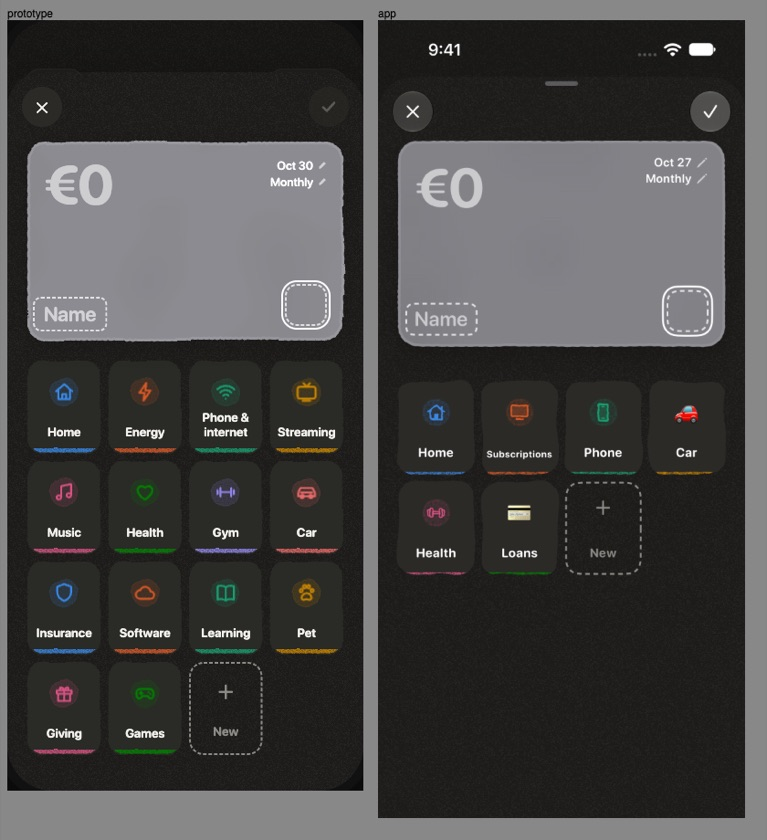
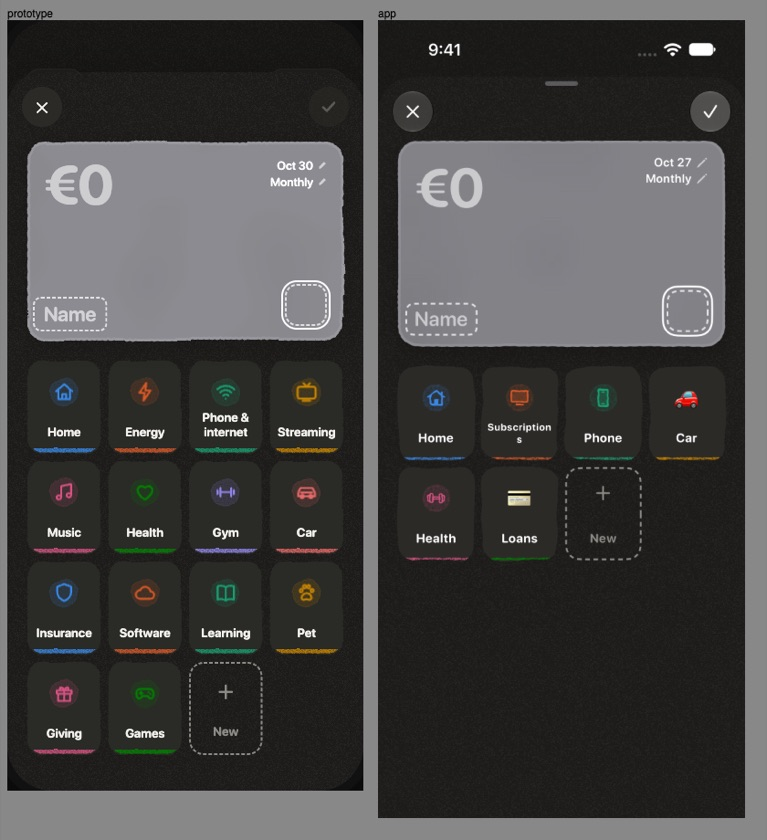
docs: the picker's screenshots after its gap and name size were fixed
Plan: docs/plans/category-editor.md

Changed region(s): [[0.6297, 0.4643, 0.8396, 0.7119], [0.5398, 0.4643, 0.5997, 0.7119], [0.8696, 0.4643, 0.9296, 0.5881]]

diff --git a/docs/screenshots/category-editor/README.md b/docs/screenshots/category-editor/README.md
@@ -1,6 +1,6 @@
 # Category editor, prototype and app side by side
 
-Taken 2026-10-27 at `claude/project-thread-v3a3hk` 7479606, iPhone 17 Simulator (iOS 27), against
+Taken 2026-10-27 at `claude/project-thread-v3a3hk` 7479606 (the picker pair at fbecc80), iPhone 17 Simulator (iOS 27), against
 `docs/prototypes/category-editor.html` (Tune: search `top`, findEdit `press`, cardInfo `cost`,
 infoAt `below`). Each `side-by-side-*` has the prototype on the left and the app on the right,
 both at point scale (390 and 402 wide). The sample data differs: the prototype has its 14
@@ -9,8 +9,6 @@ design. `app-*-ax` are the app at the accessibility-large text size.
 
 ## Differences that remain
 
-- **Picker under the bill card:** the app's grid starts about 10pt lower under the card than the
-  prototype's. The editor's own spacing; left alone, as its layout is held by measured rules.
 - **Symbols:** the app's catalogue is far larger than the prototype's 28 stand-ins, so the grid
   runs longer and the picked symbol is often below the fold.
 - **Sort menu:** the system menu puts each sort's detail under its name; the prototype sets it on
@@ -20,10 +18,12 @@ design. `app-*-ax` are the app at the accessibility-large text size.
   editor already has.
 - **Pictures from emoji:** sample categories made before symbols (Car, Loans) still draw their
   emoji.
-- **Long names at the largest sizes:** past 80% a name breaks mid-word ("Subscriptions" at
-  accessibility sizes), as agreed: imperfect over tiny.
+- **Long names:** a name shrinks to 80% of its size at most, then breaks mid-word, as agreed:
+  imperfect over tiny. "Subscriptions" breaks on a picker card; the prototype's sample has no
+  name that long.
 - **All bills notes:** a bill whose figure is its own charge shows no note, where the prototype
   showed none either; rhythms the prototype doesn't have (`€45 every 3 months`) are kept.
 
-Fixed in this pass: the Categories page's ground (white → paper), square symbol cells, the Undo
+Fixed in this pass: the picker grid now sits 22 under the bill card, as the prototype's (it was
+40); a card's name no longer shrinks below 80%; the Categories page's ground (white → paper), square symbol cells, the Undo
 capsule's height (70 above the bottom), and the filled tile in Settings.
